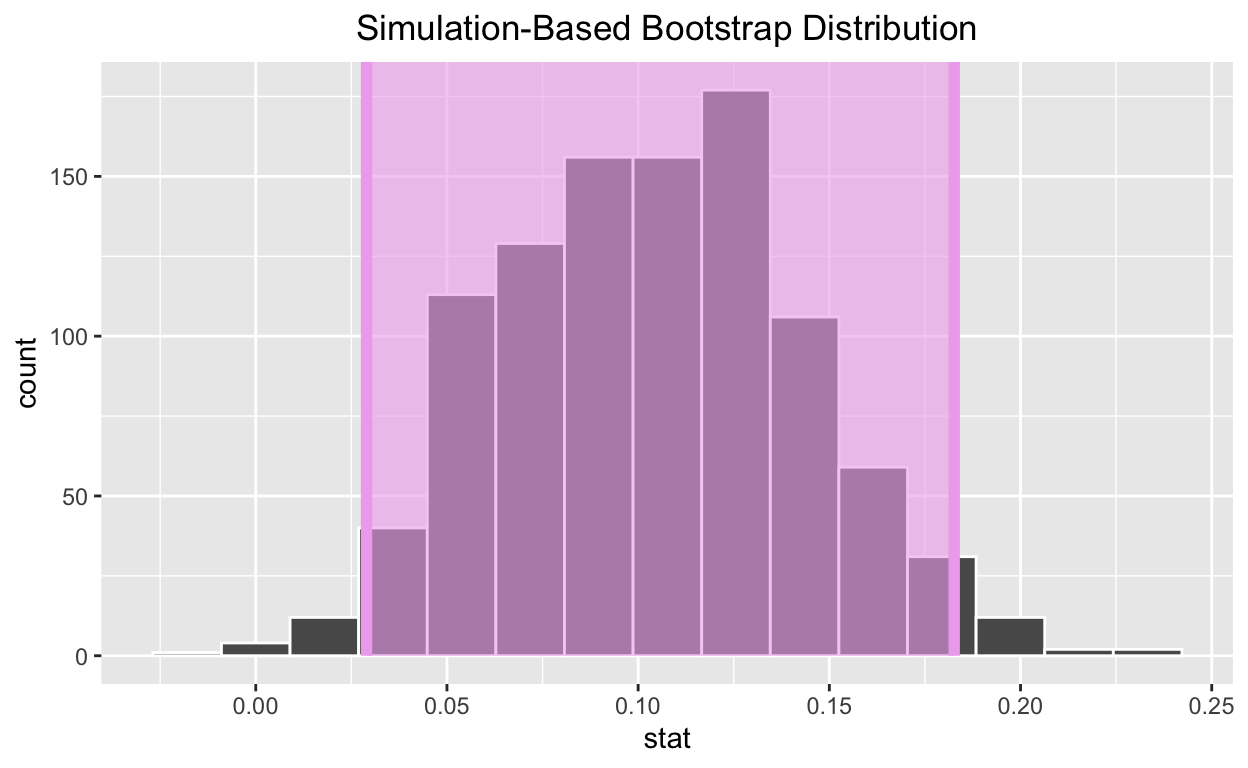
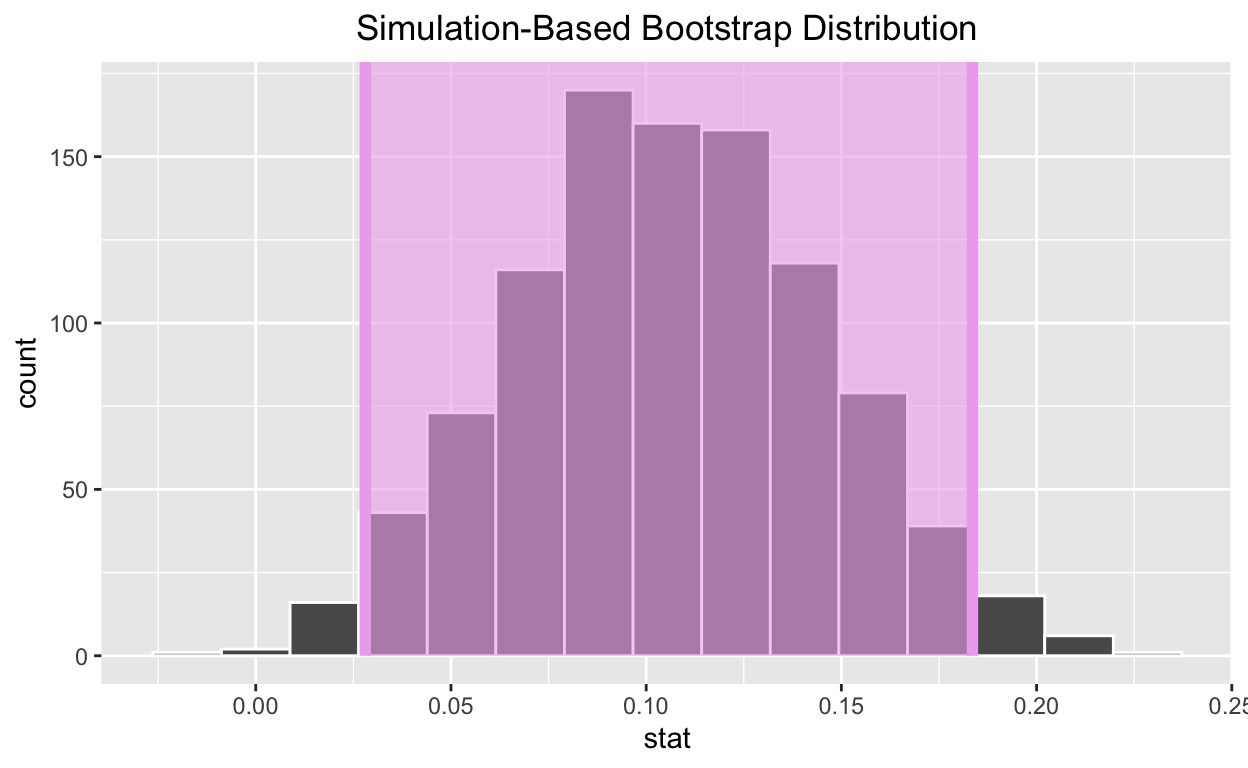
committing

diff --git a/index.html b/index.html
@@ -1675,7 +1675,7 @@ Explanatory: habit_binary (numeric)
 <pre><code># A tibble: 1 × 2
   lower_ci upper_ci
      &lt;dbl&gt;    &lt;dbl&gt;
-1   0.0290    0.183</code></pre>
+1   0.0281    0.184</code></pre>
 </div>
 <div class="layout-chunk" data-layout="l-body">
 <div class="sourceCode">
@@ -1858,7 +1858,7 @@ Explanatory: habit_binary (numeric)
 <pre><code># A tibble: 1 × 2
   lower_ci upper_ci
      &lt;dbl&gt;    &lt;dbl&gt;
-1   0.0904    0.261</code></pre>
+1   0.0883    0.263</code></pre>
 </div>
 <div class="layout-chunk" data-layout="l-body">
 <div class="sourceCode">
